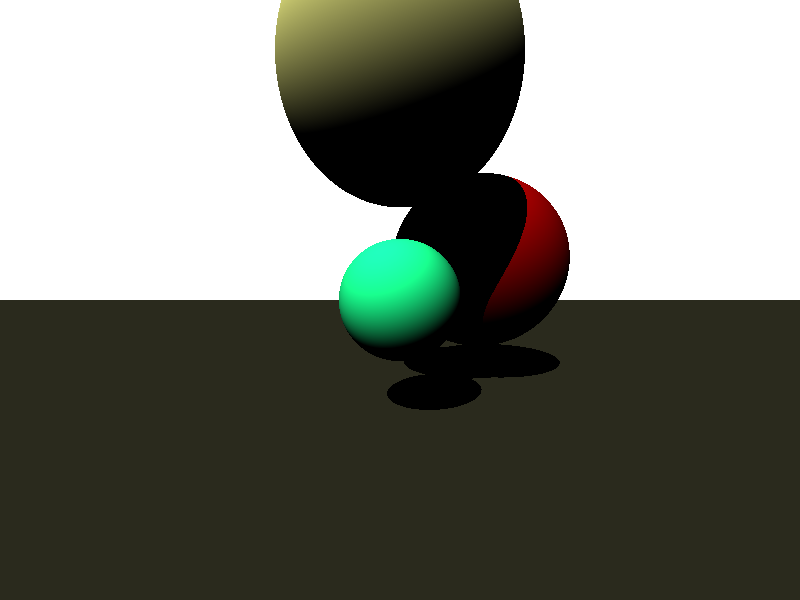
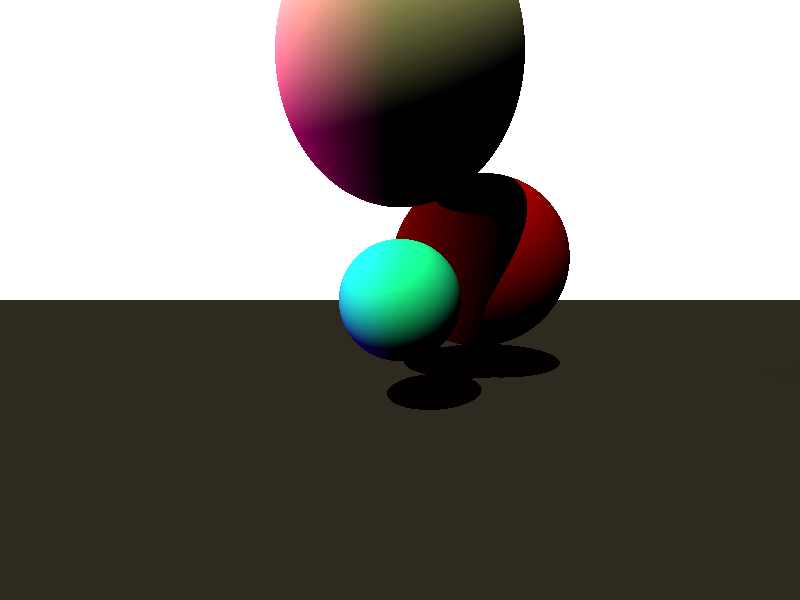
Add support for multiple lights

Changed region(s): [[0.3438, 0.0, 0.4688, 0.36], [0.4062, 0.33, 0.625, 0.6]]

diff --git a/src/main.rs b/src/main.rs
@@ -81,7 +81,7 @@ pub struct Scene {
     pub height: u32,
     pub fov: f64,
     pub bodies: Vec<Body>,
-    pub light: Light,
+    pub lights: Vec<Light>,
 }
 
 impl Scene {
@@ -218,24 +218,33 @@ impl<'a> Intersection<'a> {
 pub fn get_color(scene: &Scene, ray: &Ray, intersection: &Intersection) -> Color {
     let hit_point = ray.origin + (ray.direction * intersection.distance);
     let surface_normal = intersection.body.surface_normal(&hit_point);
-    let direction_to_light = -scene.light.direction.normalize();
 
-    // Calculate shadow by casting a ray from the hit point to the light and see if it's occluded
-    // by a body.
-    // Place origin ever so slightly above the hitpoint to avoid floating point errors where the
-    // origin is inside the body itself, so the ray intersects with itself.
-    let shadow_ray = Ray {
-        origin: hit_point + (surface_normal * SHADOW_BIAS),
-        direction: direction_to_light,
-    };
-    let in_light = scene.trace(&shadow_ray).is_none();
-    let light_intensity = if in_light { scene.light.intensity } else { 0.0 };
+    let mut final_color = Color::black();
+    let body_color = intersection.body.color();
 
-    let light_power = (surface_normal.dot(&direction_to_light) as f32).max(0.0) * light_intensity;
-    let light_reflected = intersection.body.albedo() / std::f32::consts::PI;
-    let color = intersection.body.color().clone() * scene.light.color.clone() * light_power *
-                light_reflected;
-    color.clamp()
+    for light in &scene.lights {
+        let direction_to_light = -light.direction.normalize();
+
+        // Calculate shadow by casting a ray from the hit point to the light and see if it's occluded
+        // by a body.
+        // Place origin ever so slightly above the hitpoint to avoid floating point errors where the
+        // origin is inside the body itself, so the ray intersects with itself.
+        let shadow_ray = Ray {
+            origin: hit_point + (surface_normal * SHADOW_BIAS),
+            direction: direction_to_light,
+        };
+        let in_light = scene.trace(&shadow_ray).is_none();
+        let light_intensity = if in_light { light.intensity } else { 0.0 };
+
+        let light_power = (surface_normal.dot(&direction_to_light) as f32).max(0.0) *
+                          light_intensity;
+        let light_reflected = intersection.body.albedo() / std::f32::consts::PI;
+        let light_color = light.color * light_power * light_reflected;
+
+        final_color = final_color + (body_color * light_color);
+    }
+
+    final_color.clamp()
 }
 
 pub fn render(scene: &Scene) -> ImageBuffer<Rgba<u8>, Vec<u8>> {
@@ -315,19 +324,32 @@ fn main() {
                                       },
                                       albedo: 0.35,
                                   })],
-        light: Light {
-            direction: Vector3 {
-                x: 0.4,
-                y: -1.0,
-                z: -0.9,
-            },
-            color: Color {
-                red: 1.0,
-                green: 1.0,
-                blue: 0.7,
-            },
-            intensity: 7.0,
-        },
+        lights: vec![Light {
+                         direction: Vector3 {
+                             x: 0.4,
+                             y: -1.0,
+                             z: -0.9,
+                         },
+                         color: Color {
+                             red: 1.0,
+                             green: 1.0,
+                             blue: 0.7,
+                         },
+                         intensity: 7.0,
+                     },
+                     Light {
+                         direction: Vector3 {
+                             x: 1.0,
+                             y: -0.1,
+                             z: 0.0,
+                         },
+                         color: Color {
+                             red: 0.9,
+                             blue: 0.7,
+                             green: 0.0,
+                         },
+                         intensity: 5.0,
+                     }],
     };
 
     let start = PreciseTime::now();

diff --git a/src/color.rs b/src/color.rs
@@ -1,4 +1,4 @@
-use std::ops::Mul;
+use std::ops::{Add, Mul};
 
 use image::{Pixel, Rgba};
 
@@ -10,6 +10,14 @@ pub struct Color {
 }
 
 impl Color {
+    pub fn black() -> Color {
+        Color {
+            red: 0.0,
+            green: 0.0,
+            blue: 0.0,
+        }
+    }
+
     pub fn rgba(&self) -> Rgba<u8> {
         Rgba::from_channels((self.red * 255.0) as u8,
                             (self.green * 255.0) as u8,
@@ -26,6 +34,18 @@ impl Color {
     }
 }
 
+impl Add for Color {
+    type Output = Color;
+
+    fn add(self, other: Color) -> Color {
+        Color {
+            red: self.red + other.red,
+            green: self.green + other.green,
+            blue: self.blue + other.blue,
+        }
+    }
+}
+
 impl Mul for Color {
     type Output = Color;
 
@@ -35,6 +55,22 @@ impl Mul for Color {
             green: self.green * other.green,
             blue: self.blue * other.blue,
         }
+    }
+}
+
+impl<'a> Mul for &'a Color {
+    type Output = Color;
+
+    fn mul(self, other: &'a Color) -> Color {
+        self * (*other)
+    }
+}
+
+impl<'a> Mul<Color> for &'a Color {
+    type Output = Color;
+
+    fn mul(self, other: Color) -> Color {
+        (*self) * other
     }
 }
 
